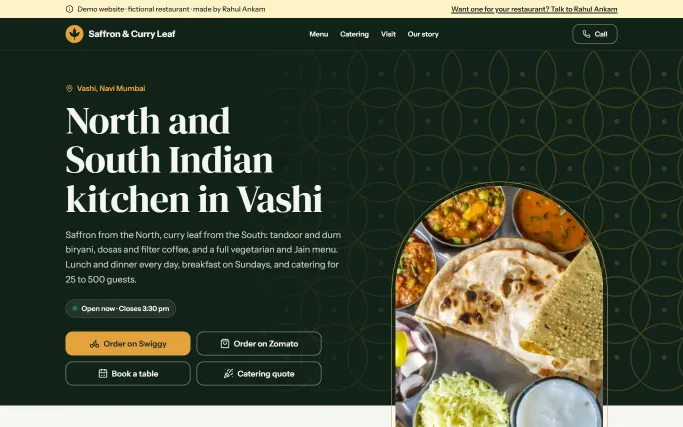
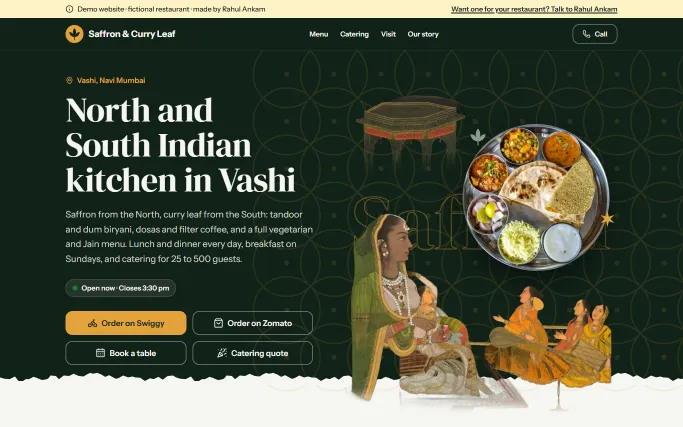
The restaurant's screenshots show its new first screen
Retaken from the live site with scripts/screenshots.mjs: the thali among
figures cut from Mughal paintings, the menu, and the catering packages.
The home screenshot's description says so.

diff --git a/client/src/content.ts b/client/src/content.ts
@@ -247,7 +247,7 @@ export const projects: Project[] = [
     images: [
       {
         src: "/images/restaurant-home-desktop.webp",
-        alt: "The restaurant's home page: a thali in an arched frame, an \"Open now\" badge, and buttons to order on Swiggy or Zomato, book a table or ask for a catering quote",
+        alt: "The restaurant's home page: a thali floating among figures cut from Mughal paintings, an \"Open now\" badge, and buttons to order on Swiggy or Zomato, book a table or ask for a catering quote",
         width: 1366,
         height: 854,
       },
